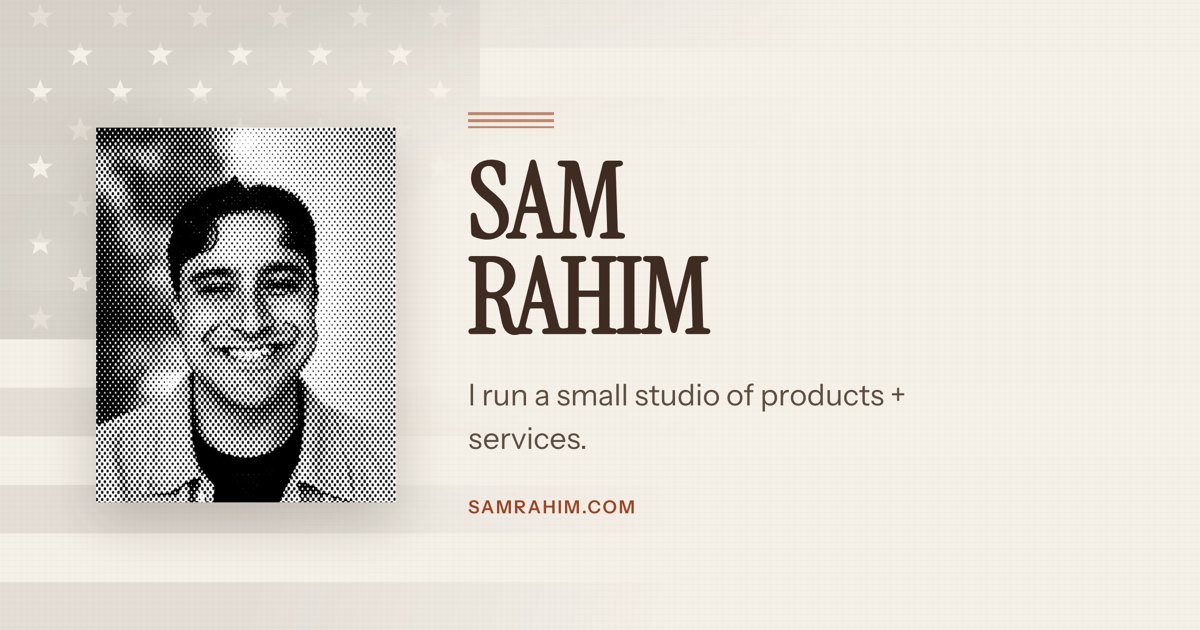
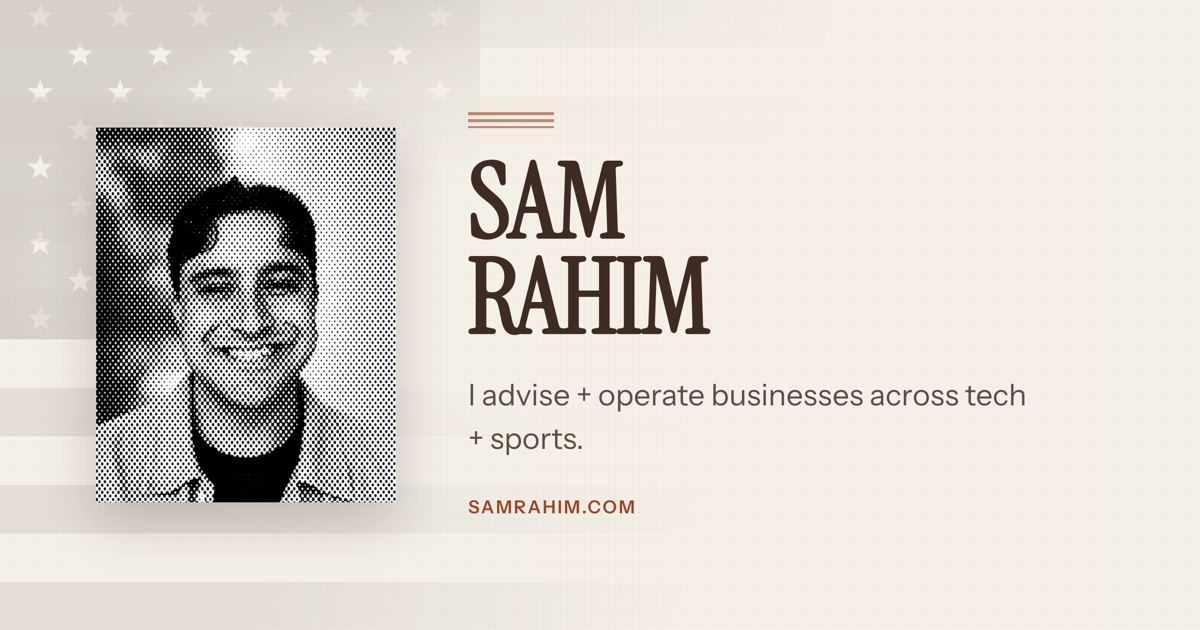
Update tagline to "advise + operate across tech + sports"
Change the hero tagline and sync the meta/og/twitter descriptions and
the OG share image to match the new positioning.

Changed region(s): [[0.37, 0.6032, 0.8633, 0.7238]]

diff --git a/index.html b/index.html
@@ -4,9 +4,9 @@
   <meta charset="UTF-8">
   <meta name="viewport" content="width=device-width, initial-scale=1.0">
   <title>Sam Rahim</title>
-  <meta name="description" content="I run Provisions, a one-person studio of products + services.">
+  <meta name="description" content="I advise + operate businesses across tech + sports.">
   <meta property="og:title" content="Sam Rahim">
-  <meta property="og:description" content="I run Provisions, a one-person studio of products + services.">
+  <meta property="og:description" content="I advise + operate businesses across tech + sports.">
   <meta property="og:image" content="https://samrahim.com/og-image.png">
   <meta property="og:type" content="website">
   <meta name="twitter:card" content="summary_large_image">
@@ -1897,7 +1897,7 @@
     <div class="hero-content">
       <p class="hero-greeting" id="greeting"></p>
       <h1>Sam Rahim</h1>
-      <p class="hero-tagline">I run a small studio of products + services.</p>
+      <p class="hero-tagline">I advise + operate businesses across tech + sports.</p>
       <a href="#contact" class="hero-cta">What're you up to?</a>
     </div>
     <a href="#about" class="hero-scroll">Scroll</a>

diff --git a/og-image.html b/og-image.html
@@ -94,7 +94,7 @@
     <div class="text">
       <div class="stripe"></div>
       <h1 class="name">Sam<br>Rahim</h1>
-      <p class="tagline">I run a small studio of products + services.</p>
+      <p class="tagline">I advise + operate businesses across tech + sports.</p>
       <p class="url">samrahim.com</p>
     </div>
   </div>
